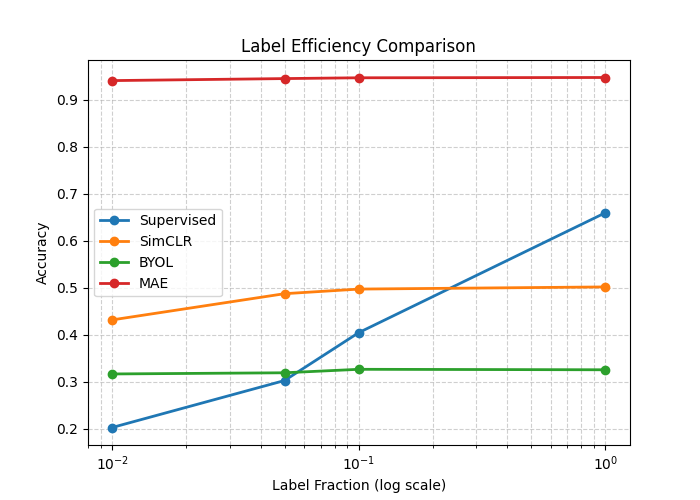
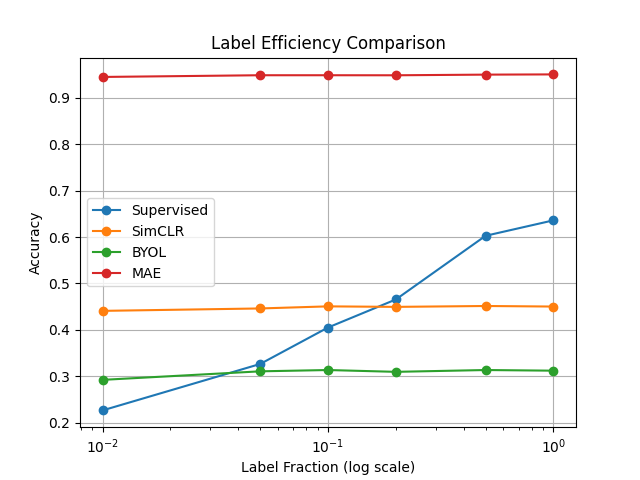
Added more label points and also implemented the metrics

Changed region(s): [[0.0312, 0.0625, 0.9062, 1.0]]

diff --git a/main.py b/main.py
@@ -9,52 +9,85 @@ from training.train_supervised import train, evaluate
 from evaluation.extract_features import extract_features
 from evaluation.linear_probe import train_linear_probe, evaluate_linear
 
+
 def main():
 
     device = torch.device("cuda" if torch.cuda.is_available() else "cpu")
 
-    label_fraction = 1.0  #change this to 0.01, 0.05, etc.
-
-    train_loader, test_loader = get_cifar10(label_fraction=label_fraction)
-
-    model = ResNet50(num_classes=10).to(device)
-
-    optimizer = optim.Adam(model.parameters(), lr=1e-3)
-    criterion = nn.CrossEntropyLoss()
+    fractions = [1.0, 0.5, 0.2, 0.1, 0.05, 0.01]
 
     results = []
 
-    for epoch in range(10):
-        loss = train(model, train_loader, optimizer, criterion, device)
-        finetune_acc = evaluate(model, test_loader, device)
+    for label_fraction in fractions:
 
-        print(f"Epoch {epoch}: Loss={loss:.4f}, Acc={finetune_acc:.4f}")
+        print(f"\n========== Fraction: {label_fraction} ==========")
 
-    results.append((label_fraction, finetune_acc))
-    torch.save(model.state_dict(), "supervised_model.pth")
-    print("Supervised model saved as supervised_model.pth")
+        train_loader, test_loader = get_cifar10(label_fraction=label_fraction)
 
-    # -----Linear Probe-----
-    # Full-data linear probe
-    full_train_loader, _ = get_cifar10(label_fraction=1.0)
+        model = ResNet50(num_classes=10).to(device)
 
-    train_features_full, train_labels_full = extract_features(model, full_train_loader, device)
-    test_features, test_labels = extract_features(model, test_loader, device)
-    classifier_full = train_linear_probe(train_features_full, train_labels_full, num_classes=10)
+        optimizer = optim.Adam(model.parameters(), lr=1e-3)
+        criterion = nn.CrossEntropyLoss()
 
-    linear_acc_full = evaluate_linear(classifier_full, test_features.to(device), test_labels.to(device))
+        # ----- Supervised Training -----
+        for epoch in range(10):
+            loss = train(model, train_loader, optimizer, criterion, device)
+            finetune_acc = evaluate(model, test_loader, device)
 
+            print(f"Epoch {epoch}: Loss={loss:.4f}, Acc={finetune_acc:.4f}")
 
-    # Low-label linear probe
-    train_features_small, train_labels_small = extract_features(model, train_loader, device)
-    classifier_small = train_linear_probe(train_features_small, train_labels_small, num_classes=10)
+        print(f"Final Fine-tune Accuracy: {finetune_acc:.4f}")
 
-    linear_acc_small = evaluate_linear(classifier_small, test_features.to(device), test_labels.to(device))
+        results.append((label_fraction, finetune_acc))
 
+        # Save only for full dataset (avoid overwriting repeatedly)
+        if label_fraction == 1.0:
+            torch.save(model.state_dict(), "supervised_model.pth")
+            print("Supervised model saved as supervised_model.pth")
 
-    print("Fine-tune Accuracy:", finetune_acc)
-    print("Linear Probe (full data):", linear_acc_full)
-    print("Linear Probe (same fraction):", linear_acc_small)
+        # ----- Linear Probe -----
+
+        # Full-data linear probe (fixed reference)
+        full_train_loader, _ = get_cifar10(label_fraction=1.0)
+
+        train_features_full, train_labels_full = extract_features(model, full_train_loader, device)
+        test_features, test_labels = extract_features(model, test_loader, device)
+
+        classifier_full = train_linear_probe(
+            train_features_full,
+            train_labels_full,
+            num_classes=10
+        )
+
+        linear_acc_full = evaluate_linear(
+            classifier_full,
+            test_features.to(device),
+            test_labels.to(device)
+        )
+
+        # Same-fraction linear probe (IMPORTANT FIX)
+        train_features_small, train_labels_small = extract_features(model, train_loader, device)
+
+        classifier_small = train_linear_probe(
+            train_features_small,
+            train_labels_small,
+            num_classes=10
+        )
+
+        linear_acc_small = evaluate_linear(
+            classifier_small,
+            test_features.to(device),
+            test_labels.to(device)
+        )
+
+        print("Linear Probe (full data):", linear_acc_full)
+        print("Linear Probe (same fraction):", linear_acc_small)
+
+    # ----- Final Summary -----
+    print("\n========== FINAL RESULTS ==========")
+    for frac, acc in results:
+        print(f"{frac}: {acc:.4f}")
+
 
 if __name__ == "__main__":
     main()

diff --git a/analysis/plot_label_efficiency.py b/analysis/plot_label_efficiency.py
@@ -1,59 +1,50 @@
-import matplotlib.pyplot as plt
 import numpy as np
+import matplotlib.pyplot as plt
 
-# -----------------------------
-# Data
-# -----------------------------
+fractions = np.array([1.0, 0.5, 0.2, 0.1, 0.05, 0.01])
 
-fractions = np.array([1.0, 0.1, 0.05, 0.01])
+supervised = np.array([0.6360, 0.6027, 0.4655, 0.4050, 0.3264, 0.2264])
+simclr = np.array([0.4502, 0.4514, 0.4495, 0.4506, 0.4461, 0.4409])
+byol = np.array([0.3120, 0.3134, 0.3095, 0.3134, 0.3106, 0.2922])
+mae = np.array([0.9505, 0.9500, 0.9486, 0.9487, 0.9487, 0.9450])
 
-# Supervised results
-supervised = np.array([0.6599, 0.4047, 0.3027, 0.2027])
+log_f = np.log(fractions)
 
-# SimCLR results (aligning with same fractions)
-simclr = np.array([0.5020, 0.4974, 0.4876, 0.4318])
-byol = np.array([0.3256, 0.3266, 0.3192, 0.3167])
-mae = np.array([0.9479, 0.9473, 0.9456, 0.9413])
+# sort
+idx = np.argsort(log_f)
+log_f = log_f[idx]
 
-# -----------------------------
-# Plotting
-# -----------------------------
+def compute_les(acc):
+    acc = acc[idx]
+    return np.trapezoid(acc, log_f) / abs(log_f.min())
 
-plt.figure(figsize=(7, 5))
+les_sup = compute_les(supervised)
+les_sim = compute_les(simclr)
+les_byol = compute_les(byol)
+les_mae = compute_les(mae)
 
-plt.plot(fractions, supervised, marker='o', linewidth=2, label='Supervised')
-plt.plot(fractions, simclr, marker='o', linewidth=2, label='SimCLR')
-plt.plot(fractions, byol, marker='o', linewidth=2, label='BYOL')
-plt.plot(fractions, mae, marker='o', linewidth=2, label='MAE')
+print("Supervised LES:", les_sup)
+print("SimCLR LES:", les_sim)
+print("BYOL LES:", les_byol)
+print("MAE LES:", les_mae)
+
+print("\nΔLES (SimCLR):", les_sim - les_sup)
+print("ΔLES (BYOL):", les_byol - les_sup)
+print("ΔLES (MAE):", les_mae - les_sup)
+
+# Plot
+plt.figure()
+plt.plot(fractions, supervised, marker='o', label='Supervised')
+plt.plot(fractions, simclr, marker='o', label='SimCLR')
+plt.plot(fractions, byol, marker='o', label='BYOL')
+plt.plot(fractions, mae, marker='o', label='MAE')
 
 plt.xscale('log')
 plt.xlabel('Label Fraction (log scale)')
 plt.ylabel('Accuracy')
 plt.title('Label Efficiency Comparison')
 
-plt.grid(True, which="both", linestyle="--", alpha=0.6)
 plt.legend()
-
+plt.grid(True)
 plt.savefig('label_efficiency_comparison.png')
 plt.show()
-
-# -----------------------------
-# LES Calculation
-# -----------------------------
-
-def compute_les(fractions, accuracies):
-    log_f = np.log(fractions)
-    sorted_idx = np.argsort(log_f)
-    log_f = log_f[sorted_idx]
-    accuracies = accuracies[sorted_idx]
-    return np.trapezoid(accuracies, log_f)
-
-les_supervised = compute_les(fractions, supervised)
-les_simclr = compute_les(fractions, simclr)
-les_byol = compute_les(fractions, byol)
-les_mae = compute_les(fractions, mae)
-
-print(f"Supervised LES: {les_supervised:.4f}")
-print(f"SimCLR LES: {les_simclr:.4f}")
-print(f"BYOL LES: {les_byol:.4f}")
-print(f"MAE LES: {les_mae:.4f}")

diff --git a/scripts/evaluate_simclr.py b/scripts/evaluate_simclr.py
@@ -22,7 +22,7 @@ def main():
     test_features, test_labels = extract_features(model, eval_test_loader, device)
 
     # -------- Evaluate across label fractions --------
-    fractions = [1.0, 0.1, 0.05, 0.01]
+    fractions = [1.0, 0.5, 0.2, 0.1, 0.05, 0.01]
 
     print("\n=== SimCLR Evaluation ===\n")
 

diff --git a/scripts/evaluate_mae.py b/scripts/evaluate_mae.py
@@ -24,7 +24,7 @@ def main():
 
     test_features, test_labels = extract_features(model, eval_test_loader, device)
 
-    fractions = [1.0, 0.1, 0.01]
+    fractions = [1.0, 0.5, 0.2, 0.1, 0.05, 0.01]
 
     print("\n=== MAE (Pretrained ViT) Evaluation ===\n")
 

diff --git a/scripts/evaluate_byol.py b/scripts/evaluate_byol.py
@@ -18,7 +18,7 @@ def main():
 
     test_features, test_labels = extract_features(model, eval_test_loader, device)
 
-    fractions = [1.0, 0.1, 0.01]
+    fractions = [1.0, 0.5, 0.2, 0.1, 0.05, 0.01]
 
     print("\n=== BYOL Evaluation ===\n")
 

diff --git a/README.md b/README.md
@@ -12,3 +12,15 @@ We evaluate how different SSL paradigms perform under extreme low-label regimes 
 ## Architectures
 - ResNet-50
 - Vision Transformer (ViT)
+
+## Run everything in order
+1. Supervised
+python main.py
+2. SimCLR 
+python -m scripts.evaluate_simclr
+3. BYOL
+python -m scripts.evaluate_byol
+4. MAE 
+python -m scripts.evaluate_mae
+5. Plot
+python -m analysis.plot_label_efficiency
